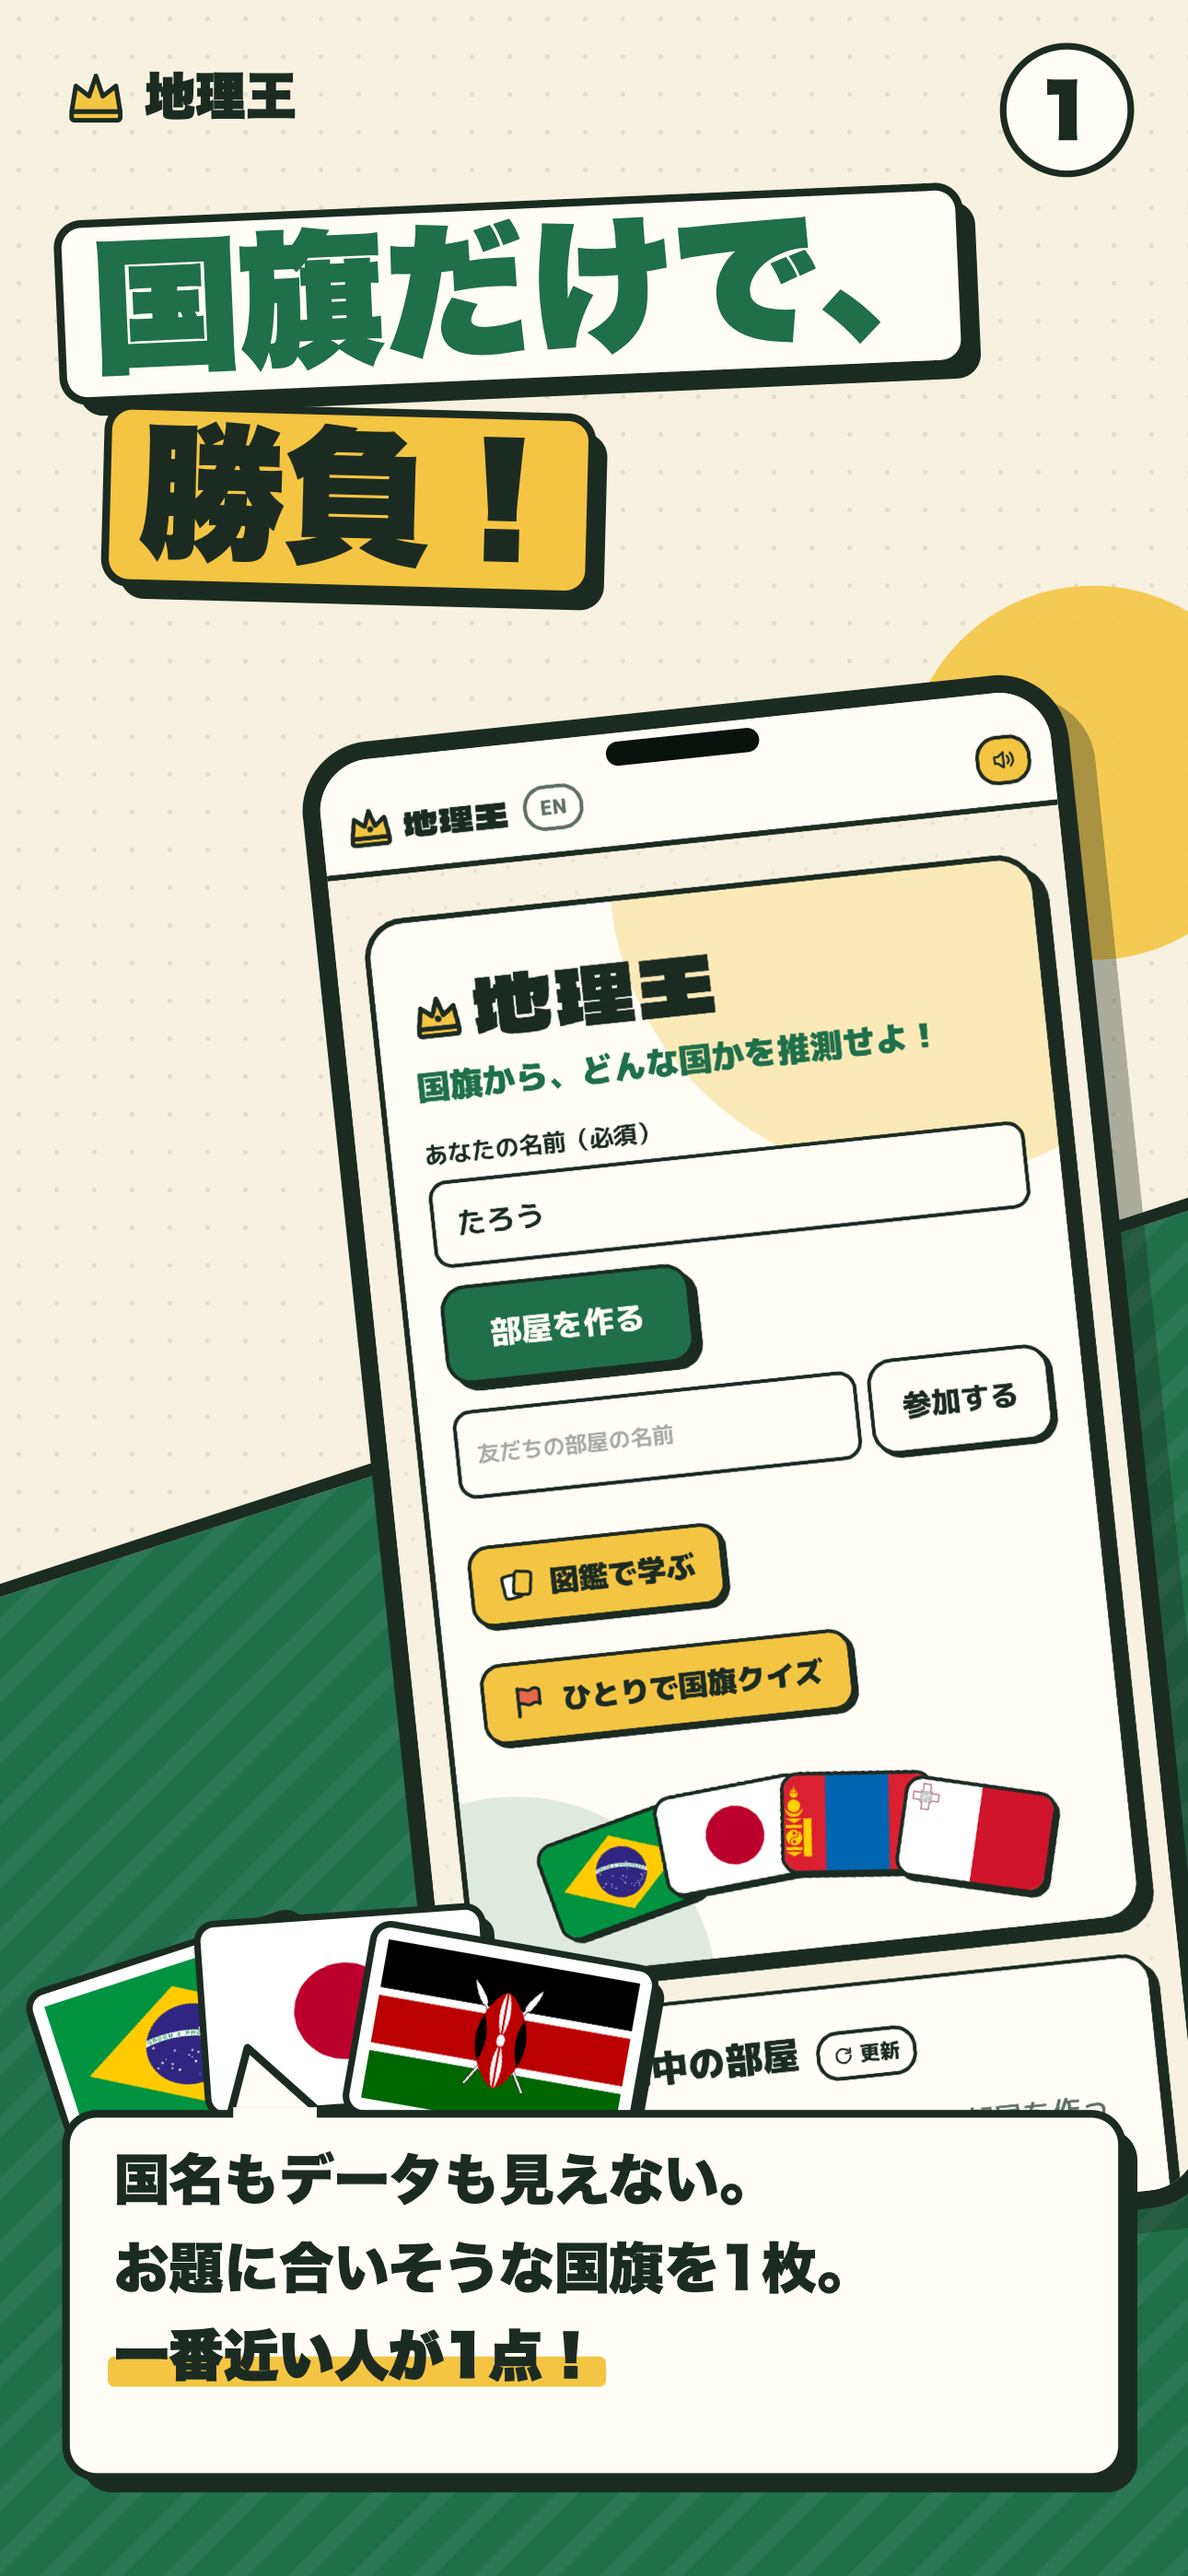
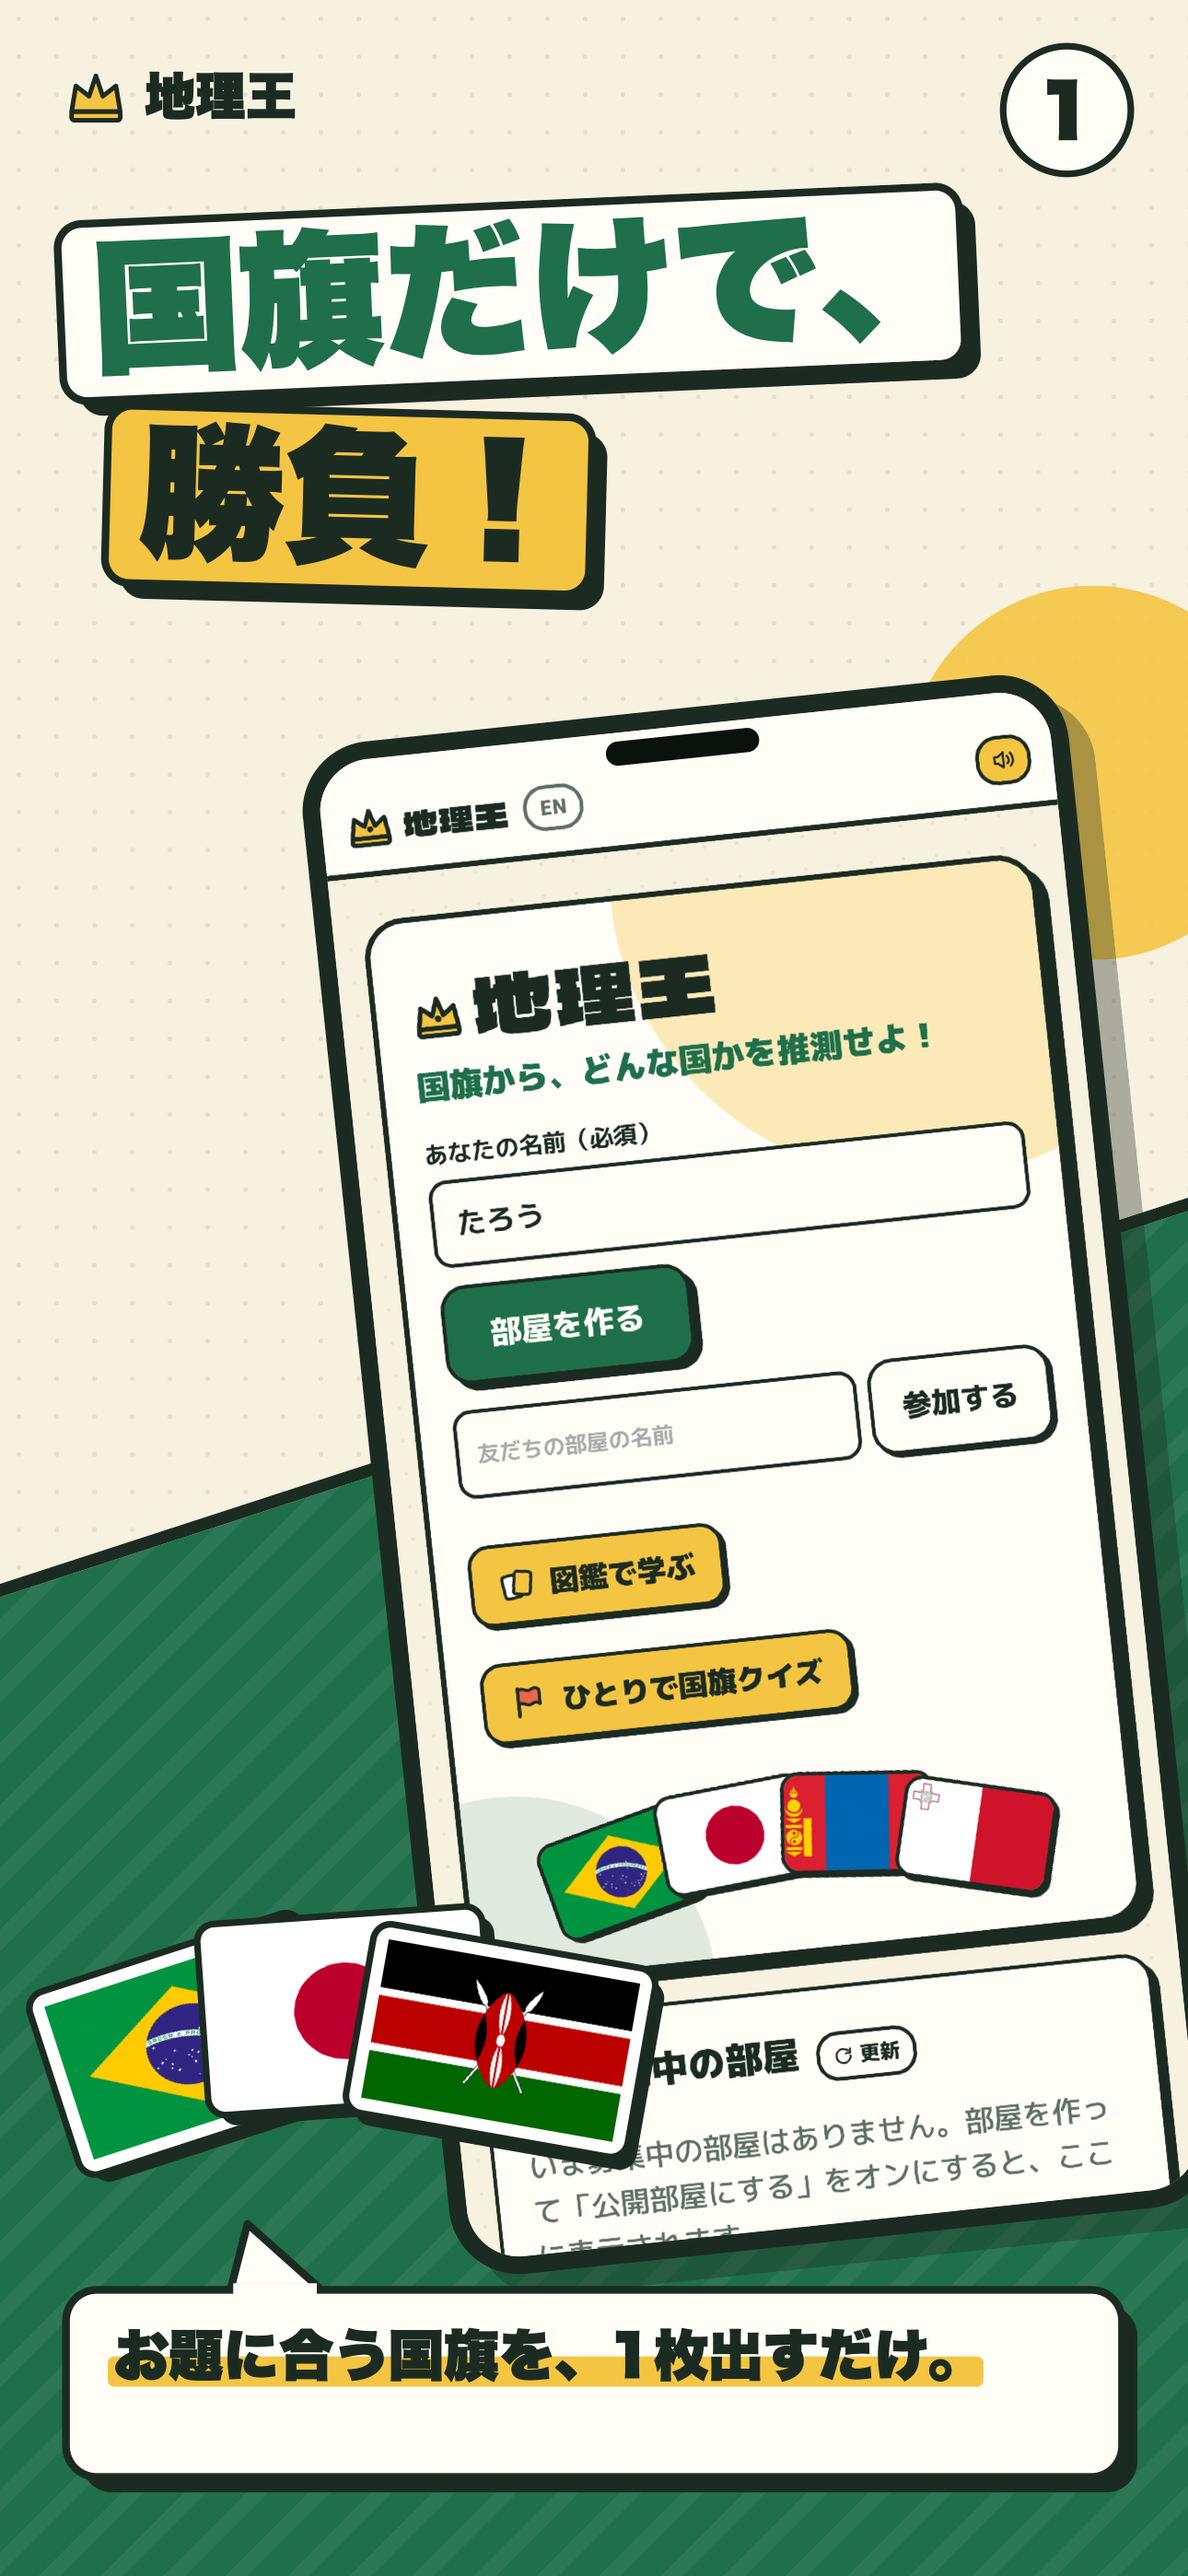
App Store のスクリーンショットの下の文を1行に（くどかったので）: お題に合う国旗を、1枚出すだけ。／お題は、面積・人口など約30種。／一番近い国旗を出した人が1点！／首都・気候・宗教まで丸わかり。／気になる国を、じっくり調べる。／10問・4択で腕だめし！

Changed region(s): [[0.031, 0.7779, 0.9612, 0.9335]]

diff --git a/docs/store-assets/make_promo.py b/docs/store-assets/make_promo.py
@@ -18,17 +18,17 @@ FONT = "Hiragino Sans, Hiragino Kaku Gothic ProN, sans-serif"
 # (スクリーンショット, 見出し行, 説明行[(text, highlight)], 飾りの国旗)
 FRAMES = [
     (('android-1-home.png', 'ios-1-home.png'),     ['国旗だけで、', '勝負！'],
-     [('国名もデータも見えない。', False), ('お題に合いそうな国旗を1枚。', False), ('一番近い人が1点！', True)], ['br', 'jp', 'ke']),
+     [('お題に合う国旗を、1枚出すだけ。', True)], ['br', 'jp', 'ke']),
     (('android-3-game.png', 'ios-2-game.png'),     ['お題に合う', '国旗を選べ'],
-     [('面積・人口・気温・宗教…', False), ('約30種のデータからお題が出る。', True), ('知識より、勘と度胸！', False)], ['no', 'ar', 'eg']),
+     [('お題は、面積・人口など約30種。', True)], ['no', 'ar', 'eg']),
     (('android-4-reveal.png', 'ios-3-reveal.png'), ['答え合わせで、', '勝負！'],
-     [('7ラウンドで最多得点が地理王。', True), ('友だちとは招待リンクで、', False), ('公開部屋で世界の誰かとも。', False)], ['jp', 'eg', 'br']),
+     [('一番近い国旗を出した人が1点！', True)], ['jp', 'eg', 'br']),
     (('android-5-modal.png', 'ios-4-modal.png'),   ['出した国の', 'ことが分かる'],
-     [('197の国旗と国のデータ、', False), ('首都・気候・宗教まで丸わかり。', True), ('遊ぶほど、世界に強くなる。', False)], ['ke', 'no', 'ar']),
+     [('首都・気候・宗教まで丸わかり。', True)], ['ke', 'no', 'ar']),
     ((None, 'ios-5-zukan.png'),                    ['図鑑で', '世界を知る'],
-     [('お題ごとの世界ランキング。', True), ('197の国旗を一覧で見られる。', False), ('国名で検索、地域で絞り込み。', False)], ['jp', 'br', 'ar']),
+     [('気になる国を、じっくり調べる。', True)], ['jp', 'br', 'ar']),
     ((None, 'ios-6-quiz.png'),                     ['ひとりで', '国旗クイズ'],
-     [('国名から国旗、国旗から国名。', False), ('10問・4択で腕だめし！', True), ('まちがえた国は見直せる。', False)], ['eg', 'ke', 'no']),
+     [('10問・4択で腕だめし！', True)], ['eg', 'ke', 'no']),
 ]
 
 def esc(t):
